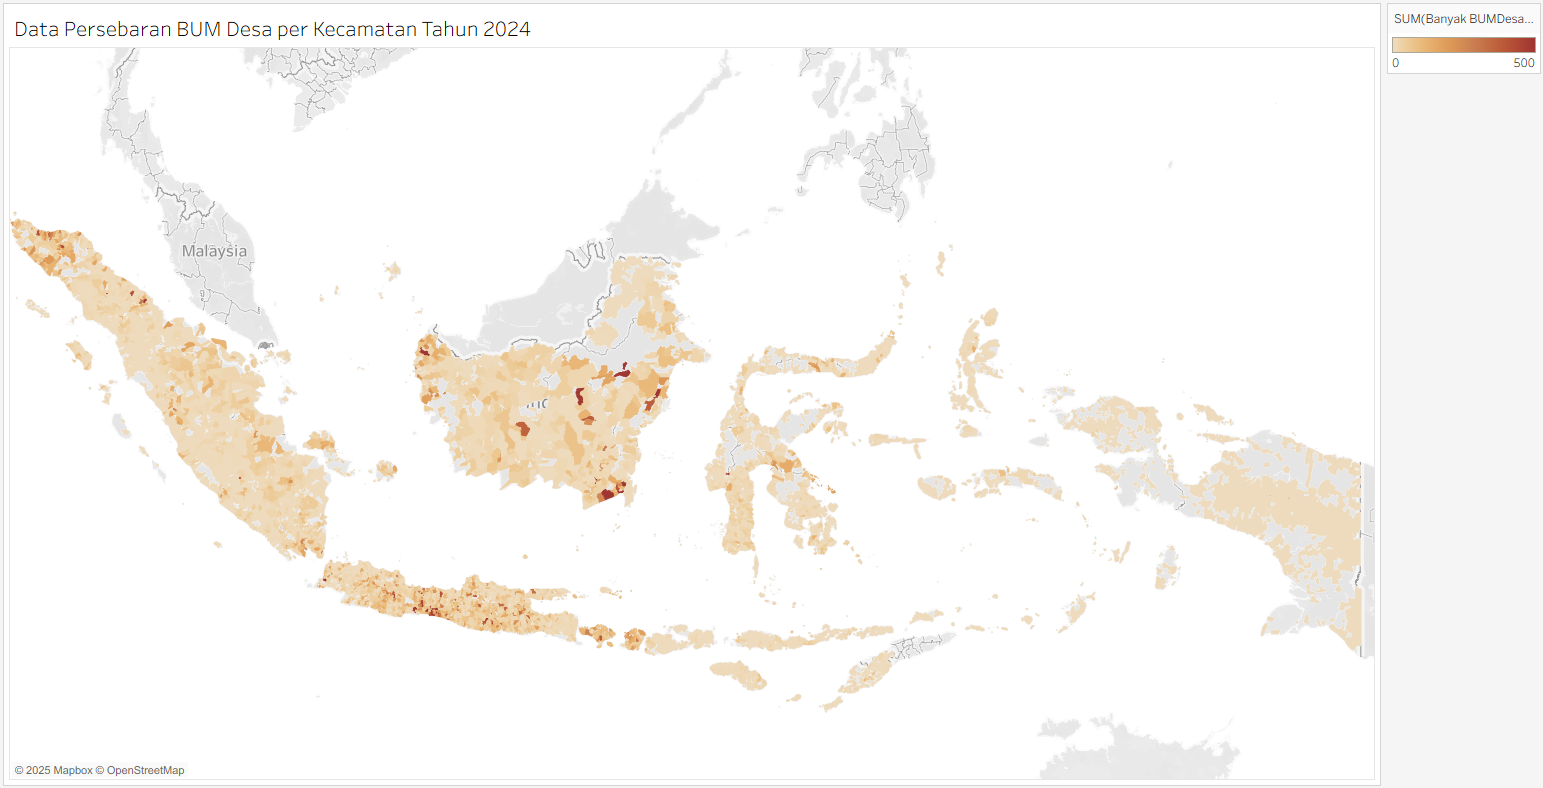
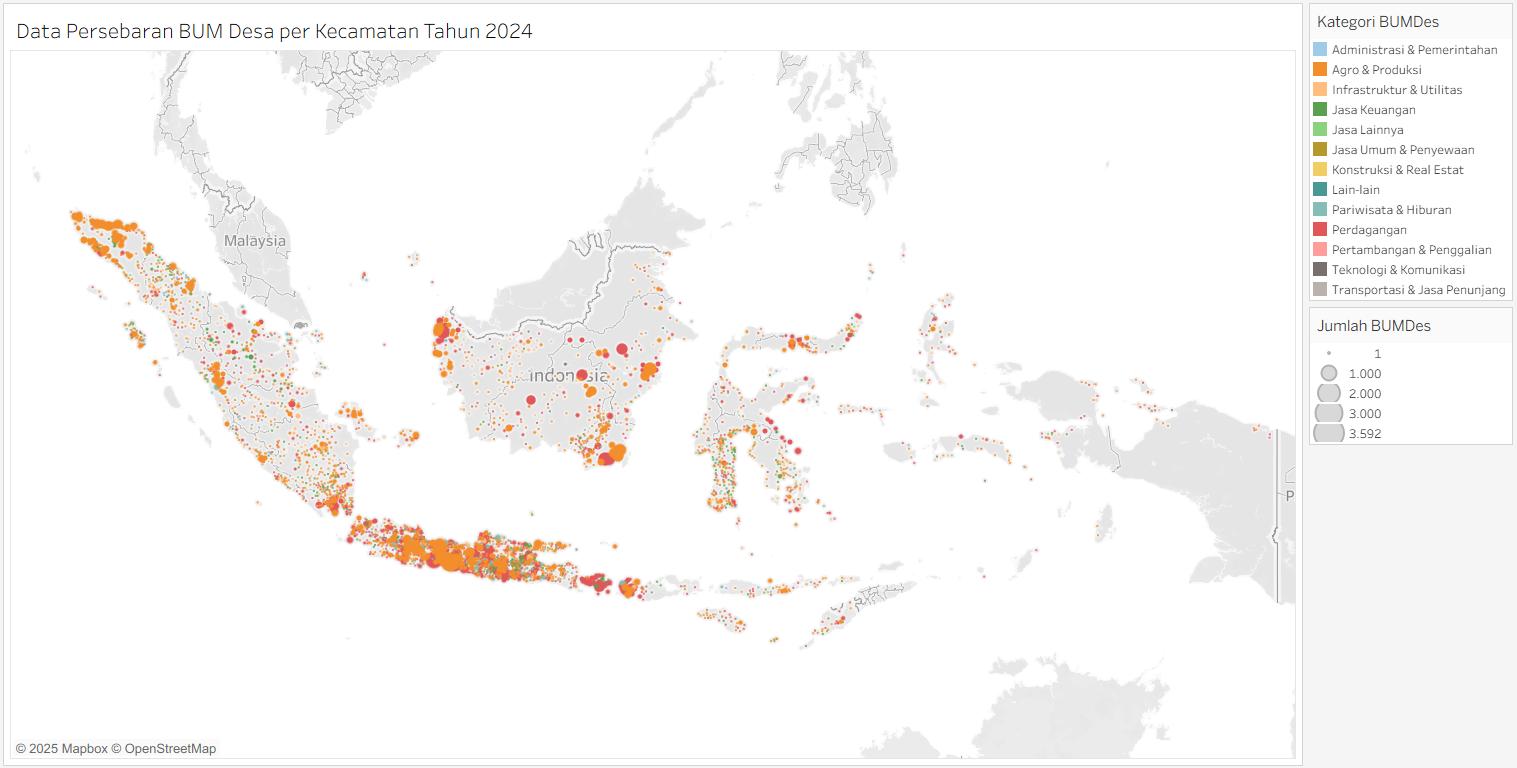
add documentation

diff --git a/README.md b/README.md
@@ -1,2 +1,26 @@
-# potensi-desa-2024
-Analisis Eksploratif Potensi Desa di Indonesia Hingga Tahun 2024
+# Analisis Potensi Desa di Indonesia: Dari Data Mentah Menjadi Visualisasi Peta
+Repositori ini berisi alur kerja lengkap untuk menganalisis dan memvisualisasikan data Potensi Desa di Indonesia. Proyek ini mengolah data mentah dari sumber publik, termasuk data geospasial, menjadi visualisasi yang menggambarkan karakteristik desa di berbagai tingkat daerah.
+
+## Latar Belakang: Apa Itu Potensi Desa?
+Potensi Desa adalah sumber daya seperti alam, manusia, dan kelembagaan yang dimiliki oleh sebuah desa dan dapat dimanfaatkan untuk meningkatkan kesejahteraan warganya. Memahami potensi ini adalah kunci untuk merancang program pembangunan yang efektif dan tepat sasaran. Proyek ini bertujuan untuk mengidentifikasi potensi tersebut melalui pencarian insight dalam hal kesejahteraan, infrastruktur, dan ekonomi.
+
+## Tujuan
+Menggabungkan data tabular dari berbagai sumber dan mengolah data geospasial untuk visualisasi peta. Peta geospasial dibuat pada Tableau Public yang menampilkan sebaran desa, kategori BUMDes, infrastruktur, dan Indeks Desa Membangun (IDM) di Indonesia.
+
+## Sumber Data
+Proyek ini menggunakan data dari tiga sumber:
+- Badan Pusat Statistik (BPS): Data karakteristik desa
+- Portal Data Kementerian Desa (Kemendesa): Data BUMDes
+- Badan Informasi Geospasial: Data Batas Wilayah Desa
+
+## Metodologi
+Proyek ini dibagi menjadi tiga tahap utama: Pengumpulan Data, Analisis Data, dan Visualisasi Peta.
+
+1. Pengumpulan Data
+Data diambil dari ketiga sumber untuk data yang berkaitan dengan potensi desa. Data mentah disimpan dalam folder /data
+
+2. Analisis Data
+Pengolahan Data dengan Python untuk membersihkan data, menggabungkan data, dan mengeksplor serta menganalisis data untuk dijadikan visualisasi peta. Hasil pembersihan data disimpan dalam folder /data/processed
+
+3. Visualisasi Peta dengan Tableau Public
+Data yang sudah bersih dan teragregasi kemudian divisualisasikan di Tableau untuk menghasilkan peta dengan data lokasi yang sudah diolah menjadi format geojson. Data yang siap divisualisasikan di Tableau dibuat dalam format excel
